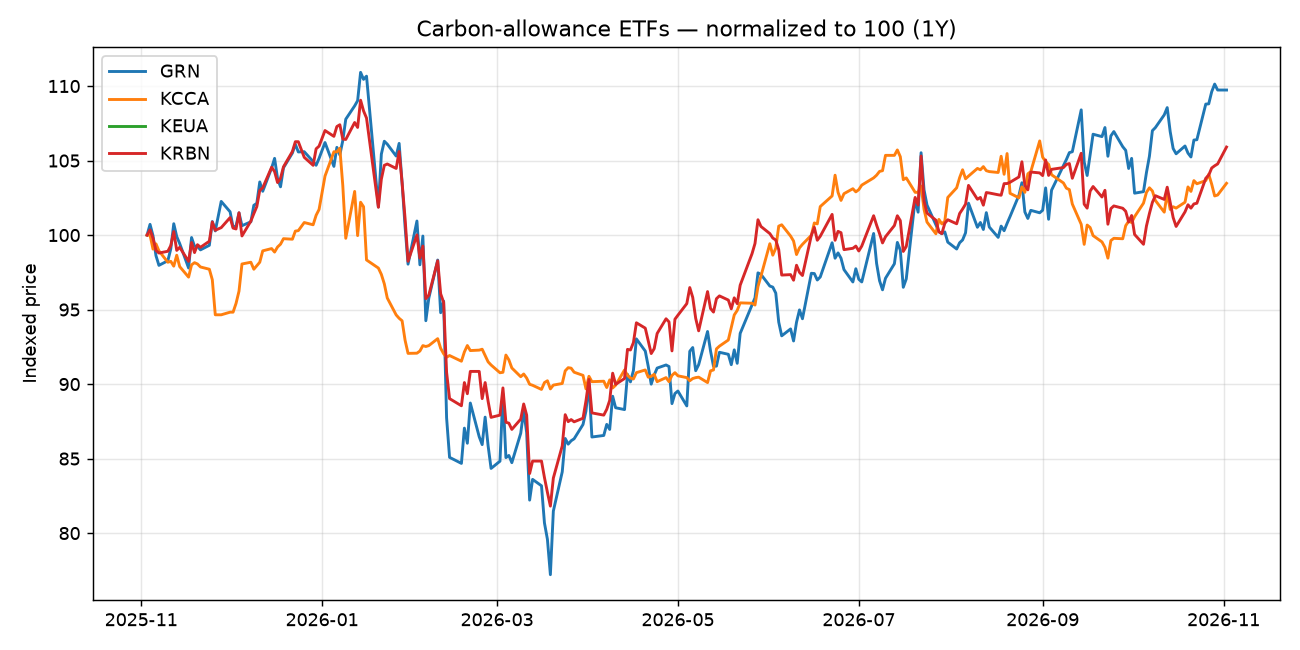
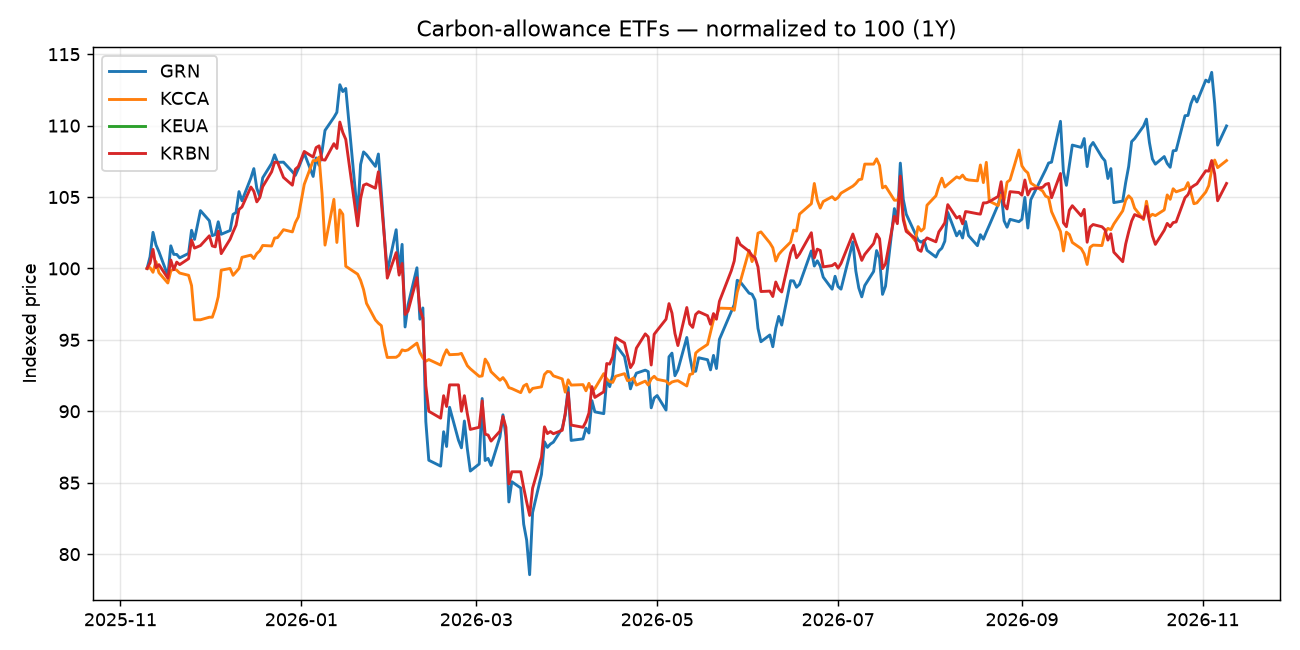
chore: weekly carbon report 2026-11-09 [skip ci]

diff --git a/reports/latest/weekly_report.md b/reports/latest/weekly_report.md
@@ -1,4 +1,4 @@
-# Carbon Market Weekly — 2026-11-02
+# Carbon Market Weekly — 2026-11-09
 
 탄소배출권 시장 주간 브리핑 (EU ETS / 글로벌 / 캘리포니아 CCA 프록시).
 
@@ -8,16 +8,16 @@
 
 | ticker | last | ret_1w_% | ret_1m_% | vol_20d_ann_% | trend_vs_MA50 | signal |
 | --- | --- | --- | --- | --- | --- | --- |
-| GRN | 35.7 | 0.87 | 6.73 | 14.2 | UP | LONG |
-| KCCA | 17.1 | -0.18 | 2.21 | 10.1 | UP | LONG |
-| KRBN | 35.38 | 2.02 | 5.86 | 11.1 | UP | LONG |
+| GRN | 35.16 | -2.84 | 0.81 | 18.4 | UP | LONG |
+| KCCA | 17.45 | 2.09 | 3.19 | 10.0 | UP | LONG |
+| KRBN | 35.01 | -0.83 | 2.1 | 13.3 | UP | LONG |
 
 ## Cross-market — EU vs California (relative value)
 
 - (KEUA/KCCA 데이터 부족)
 
 ## This week (draft)
-- KRBN(글로벌/EU 배출권): LONG — 추세 UP, 1개월 5.86%
+- KRBN(글로벌/EU 배출권): LONG — 추세 UP, 1개월 2.1%
 - (여기에 뉴스/정책 코멘트 2~3줄: EU ETS 정책, MSR, 경매 결과, K-ETS 동향 등)
 
 > Signal 규칙: 50일 이동평균 추세 + 1개월 모멘텀 동조 시 LONG/AVOID, 불일치 시 NEUTRAL.
